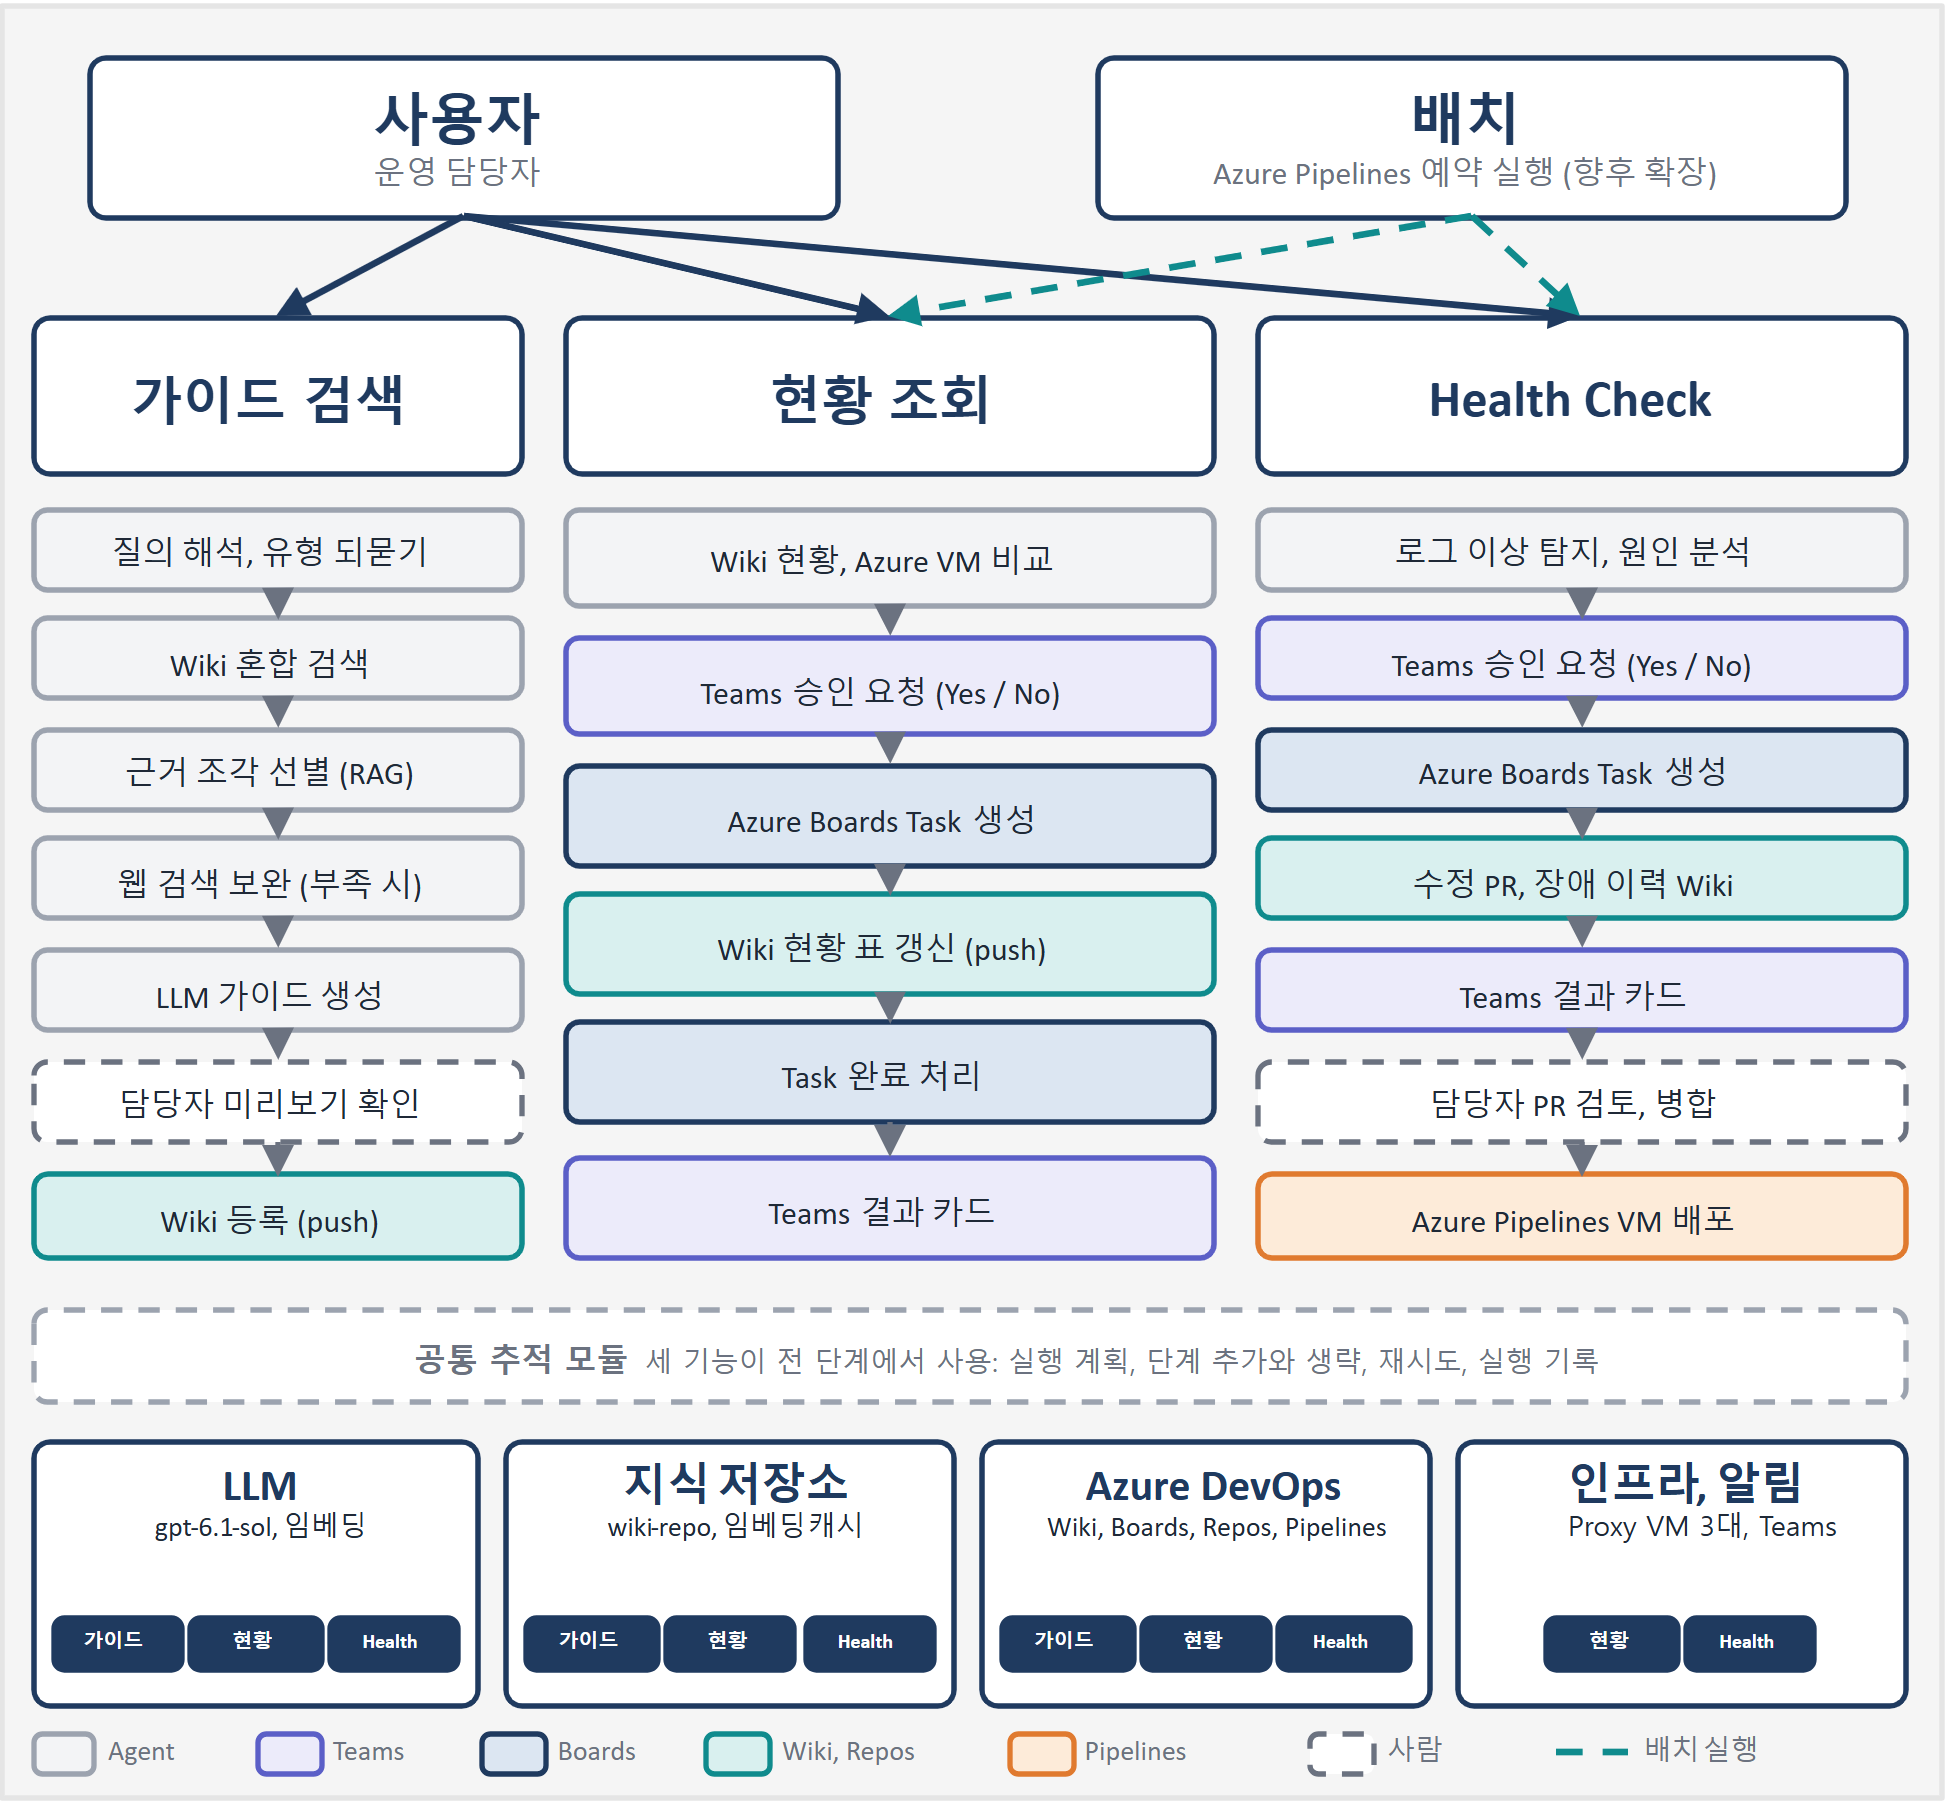
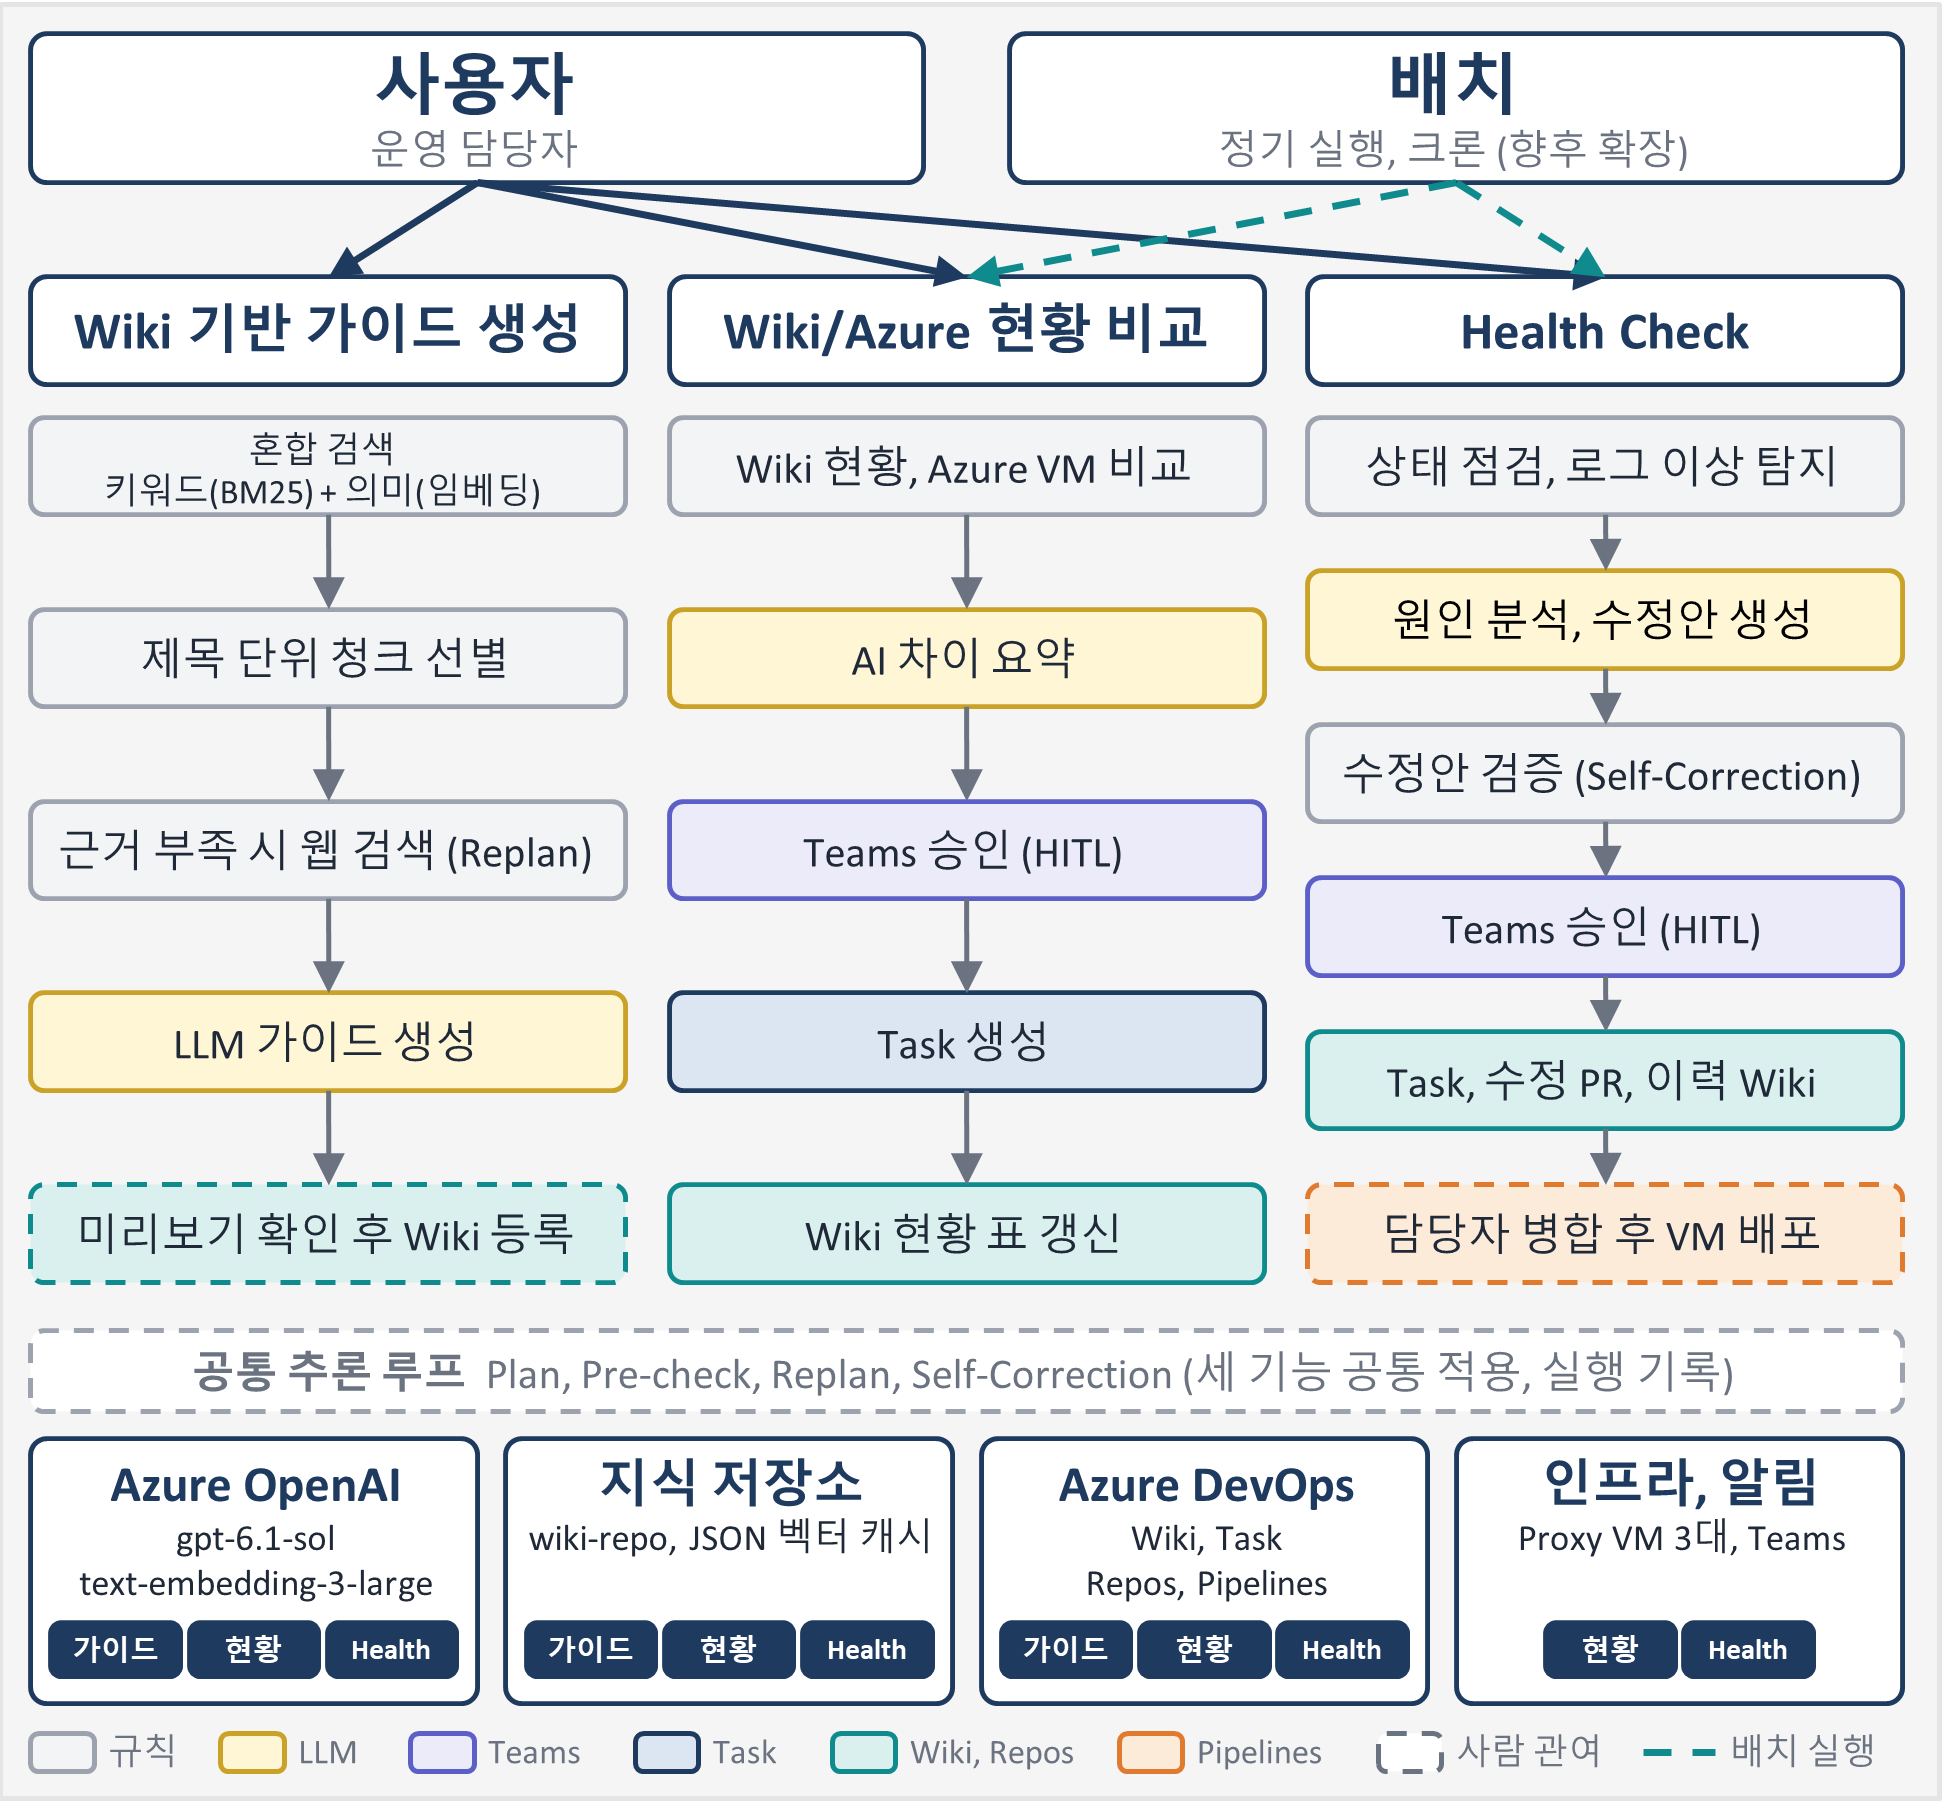
README 전체 아키텍처를 발표 자료(20261112) 3쪽 다이어그램으로 교체, 범례 설명 현행화

diff --git a/README.md b/README.md
@@ -59,9 +59,10 @@ Azure DevOps Wiki에 쌓인 운영 지식과 Azure의 실제 인프라를 LLM으
 
 **전체 아키텍처**
 
-- 사용자(수동)와 배치(향후 확장)가 세 기능을 시작하고, 기능마다 위에서 아래로 단계가 진행됩니다.
-- 상자 색은 단계가 쓰는 시스템입니다. 회색은 Agent, 보라는 Teams, 남색은 Boards, 청록은 Wiki·Repos, 주황은 Pipelines입니다.
-- 점선 상자는 사람이 하는 단계(미리보기 확인, PR 검토·병합)이고, 청록 점선 화살표는 배치 실행입니다.
+- 사용자(수동)와 배치(정기 실행, 향후 확장)가 세 기능을 시작하고, 기능마다 위에서 아래로 단계가 진행됩니다.
+- 상자 색은 단계를 맡는 쪽입니다. 회색은 규칙(코드), 노랑은 LLM, 보라는 Teams, 남색은 Task, 청록은 Wiki·Repos, 주황은 Pipelines입니다.
+- 점선 상자는 사람이 관여하는 단계(미리보기 확인 후 등록, 병합 후 배포)이고, 청록 점선 화살표는 배치 실행입니다.
+- 공통 추론 루프(Plan, Pre-check, Replan, Self-Correction)는 세 기능에 모두 적용하고 실행 기록을 남깁니다.
 - 맨 아래 상자 4개는 공통 구성 요소이고, 아래 표시(가이드·현황·Health)는 그 요소를 쓰는 기능입니다.
 
 [![전체 아키텍처](docs/images/architecture-overview.png)](docs/images/architecture-overview.png)
